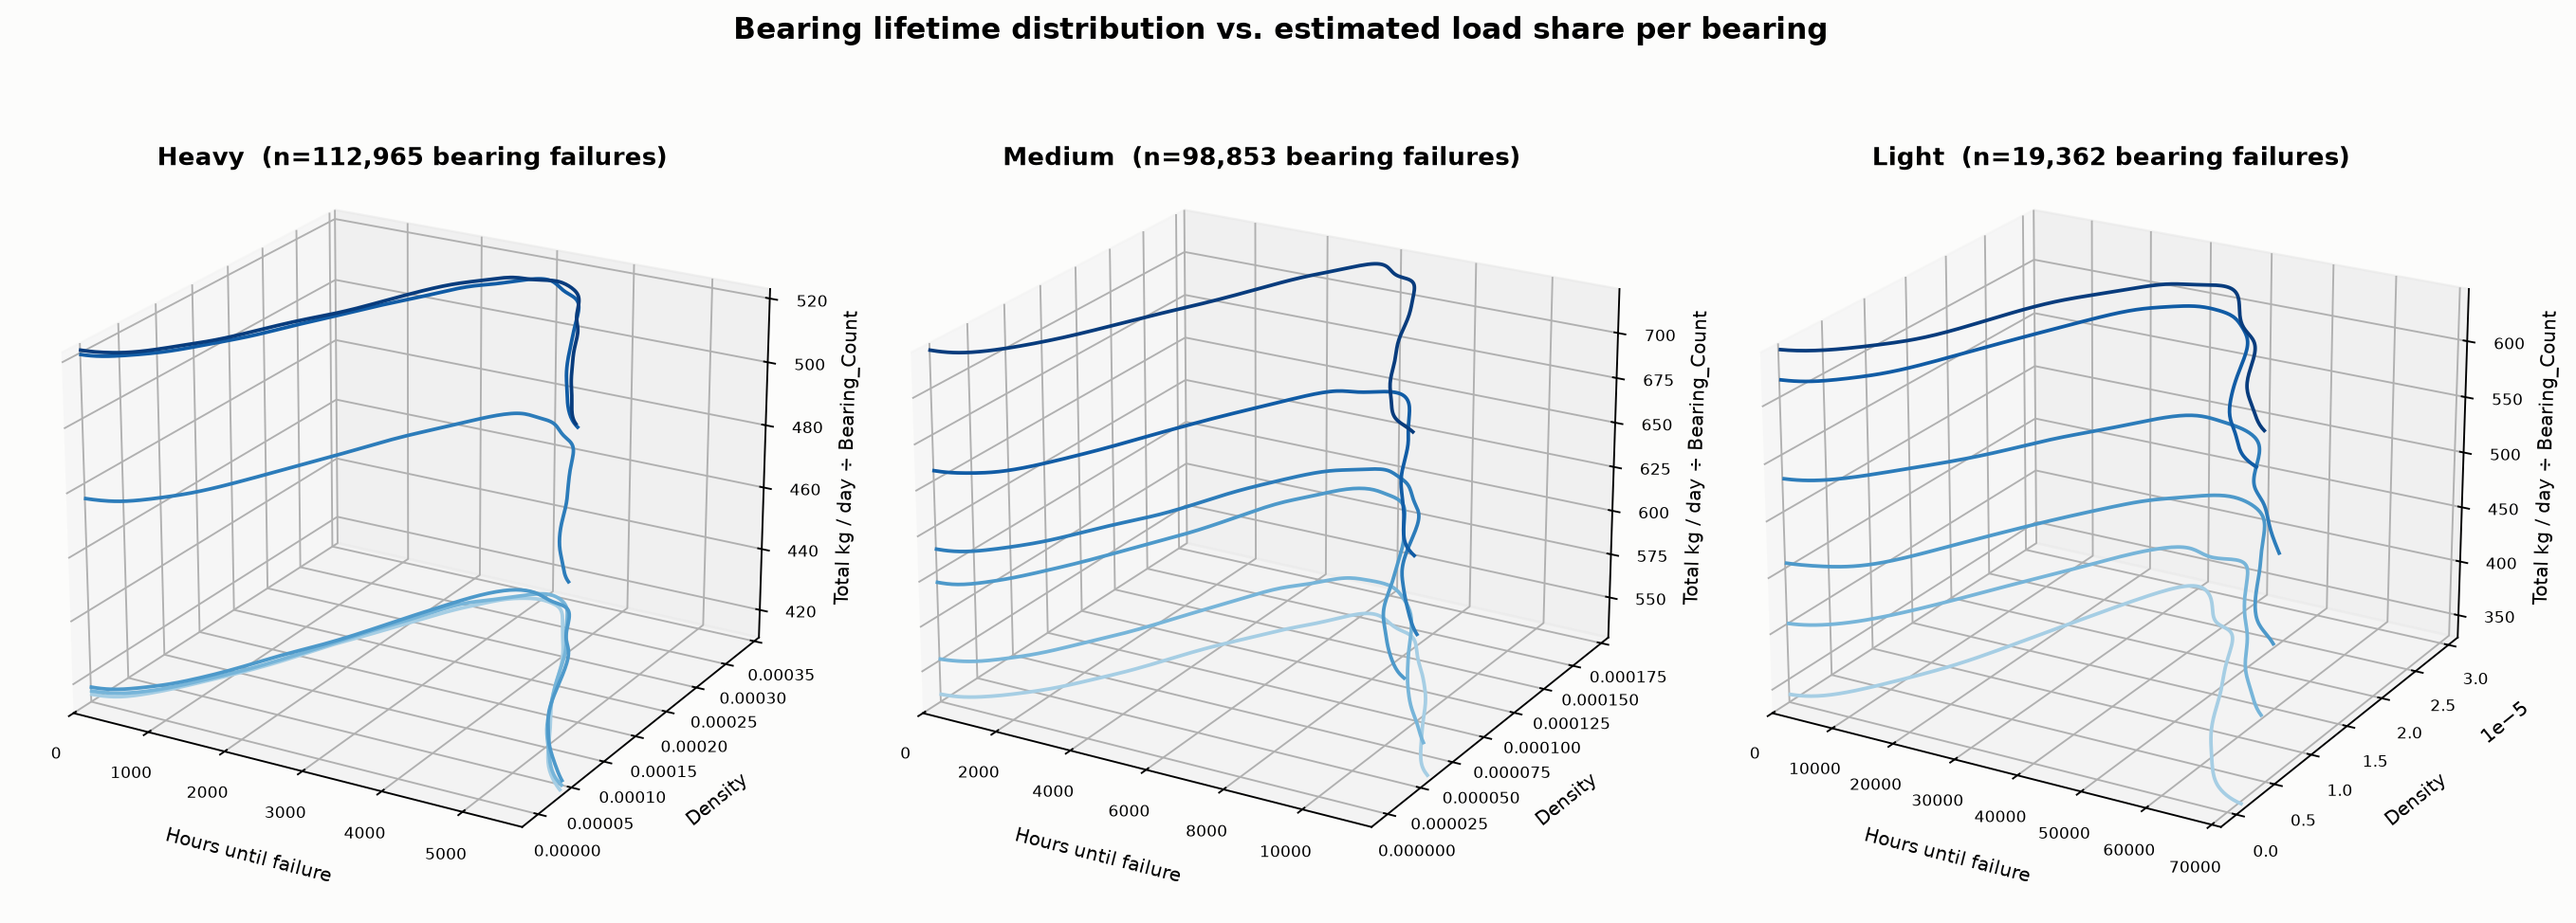
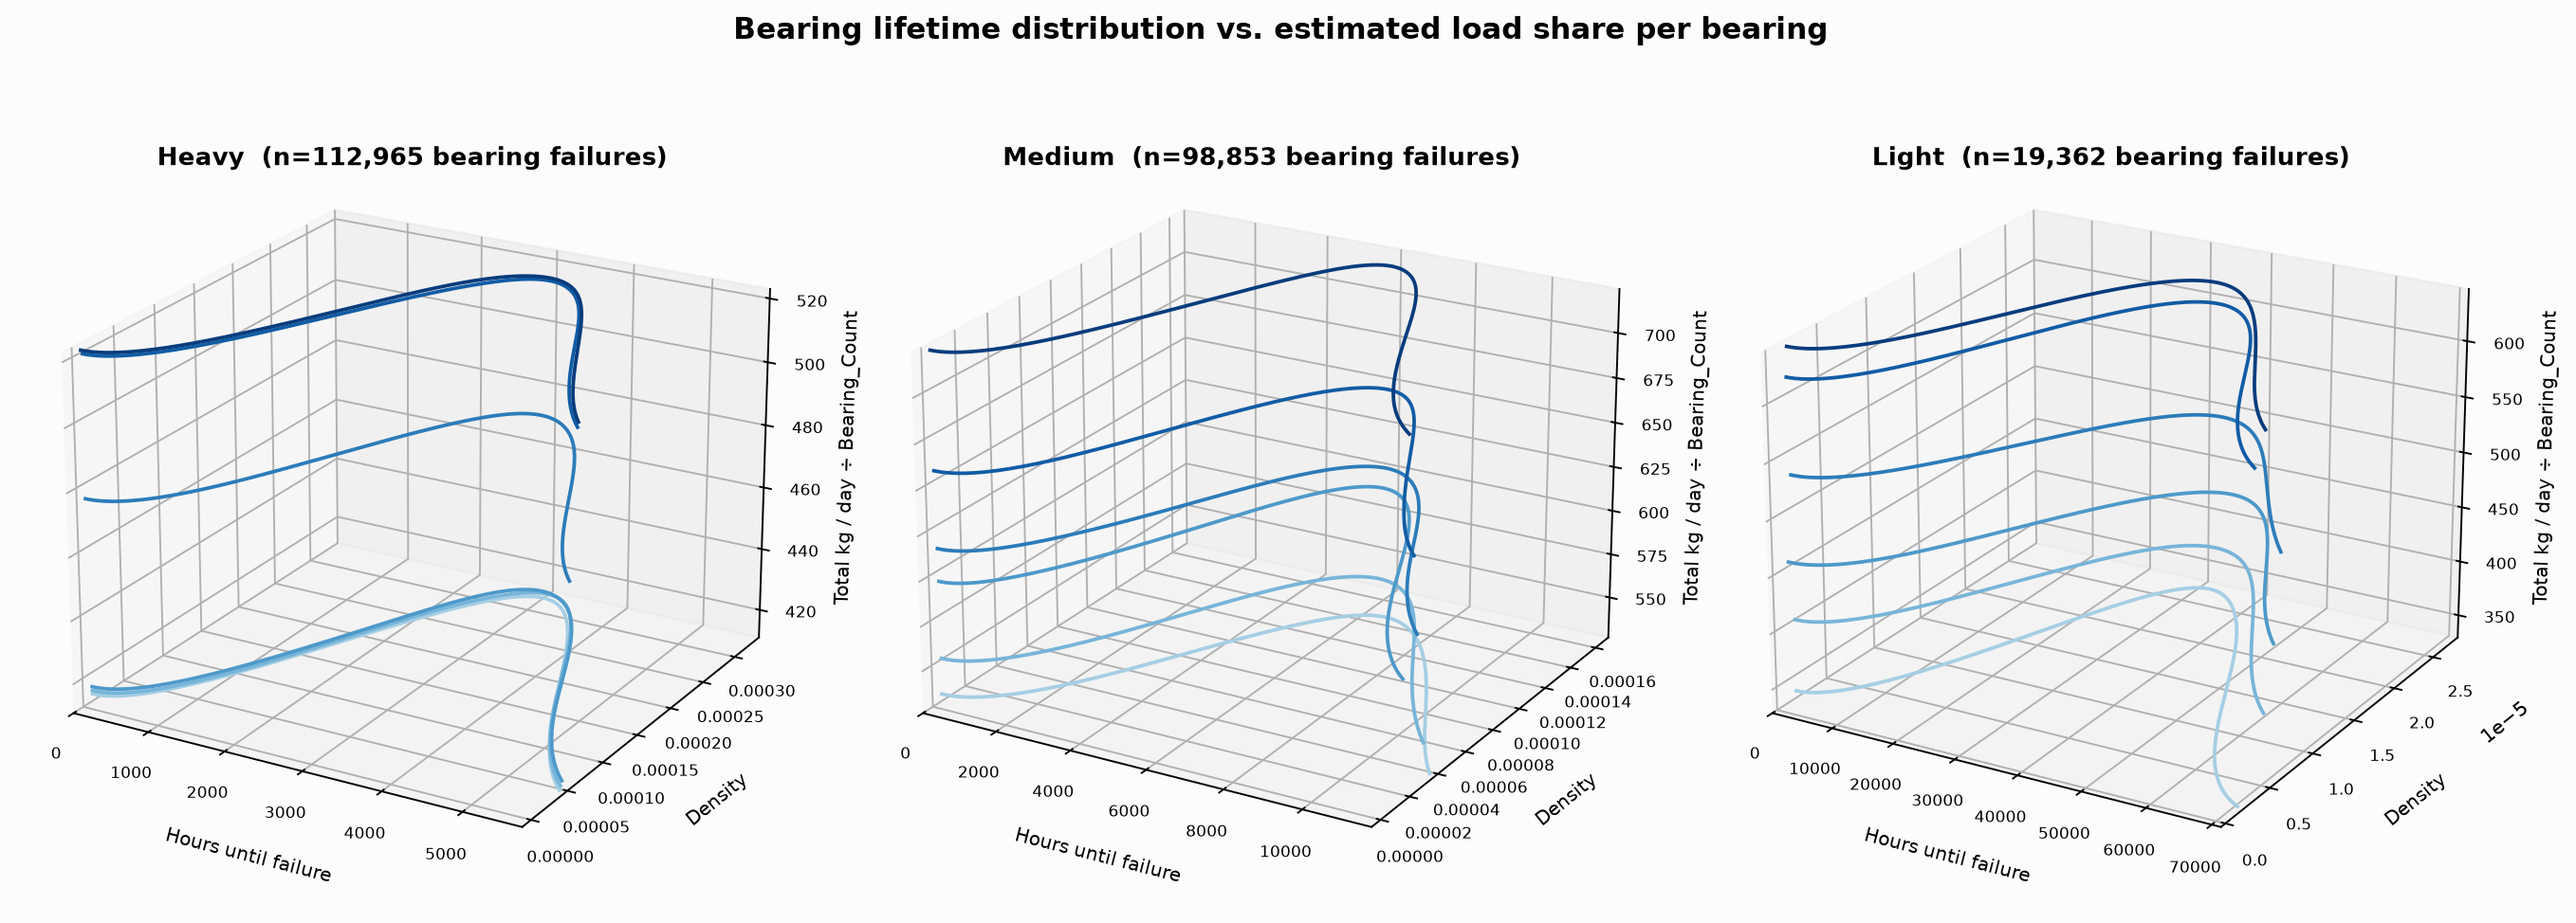
Data-catch audit, bearing-position check, and bell curves for other components
Audited the whole fleet file for hidden artifacts like the Speed_Sensor
ceiling: swept all 17 numeric columns for clipping (nothing else shows it),
and verified corrective-downtime duration is genuinely uniform (1 day, every
component, no exceptions -- a first attempt found a false violation caused by
a query bug counting a later failure's corrective days into an earlier
failure's window). Confirms the Speed_Sensor ceiling is the one deliberate
data artifact, not one of several -- 8.6% of its failures land within 0.1% of
its own max lifetime vs <=0.02% for every other component.

Checked whether bearing position (which physical slot, from
Failed_Component_ID) predicts lifetime: it doesn't (rho ~0, all load classes).

Added bell-curve KDE plots for the other 5 failure types, grouped by
Load_Class and by first-life vs. replacement. Fixed a KDE boundary-bias bug
along the way (a plain Gaussian KDE fakes a peak away from zero for
near-random components since it smooths mass past the hard boundary at 0;
caught on Controller_PC by checking against the raw histogram) with a
reflection correction, applied here and retrofitted into the bearing 3D plots
for consistency.

diff --git a/analysis/reliability_over_time/plot_other_component_bell_curves.py b/analysis/reliability_over_time/plot_other_component_bell_curves.py
@@ -1,0 +1,106 @@
+"""Bell curves (KDE of hours-until-failure) for the non-Bearing components, grouped two
+ways per component: by Load_Class, and by first-life (renewal 0) vs. replacement
+(renewal >= 1). Bearing is handled separately (plot_bearing_lifetime_vs_load_3d.py,
+plot_light_bearing_selection_effect.py) since it needs per-position data; Contactor is
+skipped here (only 12 fleet-wide failures -- too sparse for a density estimate).
+
+Reuses outputs/req1/intervals_<component>.parquet (already computed by
+scripts/02_reliability_analysis.py) -- no fleet-file re-query needed.
+
+Usage (repo root):
+  uv run --no-project --with matplotlib --with pandas --with numpy --with scipy --with pyarrow \
+    python analysis/reliability_over_time/plot_other_component_bell_curves.py
+"""
+from pathlib import Path
+
+import numpy as np
+import pandas as pd
+from scipy.stats import gaussian_kde
+import matplotlib.pyplot as plt
+
+IN = Path("outputs/req1")
+OUT = Path(__file__).parent
+BLUE, ORANGE, AQUA, GREY, PURPLE = "#2a78d6", "#eb6834", "#1baf7a", "#8a8a86", "#7b5ea8"
+INK, INK2, GRID, SURF = "#0b0b0b", "#52514e", "#e4e3df", "#fcfcfb"
+LOAD_COLOR = {"Light": AQUA, "Medium": GREY, "Heavy": ORANGE}
+NAMES = {"Conveyor_Belt": "Belt", "Motor_Reducer": "Motor-reducer", "Speed_Sensor": "Speed sensor",
+         "Controller_PC": "Controller PC", "Control_Software": "Control software"}
+COMPONENTS = list(NAMES)
+SPEED_SENSOR_CEILING = 50016
+plt.rcParams.update({"font.family": "DejaVu Sans", "font.size": 9.5, "axes.edgecolor": GRID,
+                     "axes.labelcolor": INK2, "xtick.color": INK2, "ytick.color": INK2,
+                     "figure.facecolor": SURF, "axes.facecolor": SURF})
+
+
+def style(ax):
+    for s in ("top", "right"):
+        ax.spines[s].set_visible(False)
+    ax.tick_params(length=0)
+    ax.grid(axis="y", color=GRID, lw=0.8)
+    ax.set_axisbelow(True)
+
+
+def kde_curve(vals, x_hi):
+    # Reflection boundary correction: a plain KDE is biased near a hard boundary at 0
+    # (it smooths mass to negative values that then just vanishes, which for a
+    # near-random/infant-mortality component -- highest true density AT zero -- fakes a
+    # peak away from zero that isn't in the data; verified against the raw histogram for
+    # Controller_PC before adding this). Mirroring the data across 0 and doubling the
+    # resulting density on the positive side is the standard fix.
+    xs = np.linspace(0, x_hi, 300)
+    if len(vals) < 15:
+        return xs, np.zeros_like(xs)
+    reflected = np.concatenate([vals, -vals])
+    return xs, 2 * gaussian_kde(reflected)(xs)
+
+
+def main():
+    for comp in COMPONENTS:
+        iv = pd.read_parquet(IN / f"intervals_{comp}.parquet")
+        ev = iv[iv.event == 1]
+        x_hi = ev.op_h.quantile(0.98)
+
+        fig, axes = plt.subplots(1, 2, figsize=(13, 5))
+
+        ax = axes[0]
+        for load in ["Light", "Medium", "Heavy"]:
+            g = ev[ev.load == load]
+            xs, ys = kde_curve(g.op_h.to_numpy(), x_hi)
+            ax.plot(xs, ys, color=LOAD_COLOR[load], lw=2.2, label=f"{load} (n={len(g):,})")
+        ax.set_title("By Load_Class", fontsize=11)
+        ax.set_xlabel("Hours until failure")
+        ax.set_ylabel("Density")
+        ax.legend(fontsize=8.5, frameon=False)
+        style(ax)
+
+        ax = axes[1]
+        first = ev[ev.renewal == 0]
+        later = ev[ev.renewal >= 1]
+        xs, ys = kde_curve(first.op_h.to_numpy(), x_hi)
+        ax.plot(xs, ys, color=BLUE, lw=2.2, label=f"first life (n={len(first):,})")
+        xs, ys = kde_curve(later.op_h.to_numpy(), x_hi)
+        ax.plot(xs, ys, color=PURPLE, lw=2.2, label=f"replacement, any renewal ≥1 (n={len(later):,})")
+        ax.set_title("By first life vs. replacement", fontsize=11)
+        ax.set_xlabel("Hours until failure")
+        ax.set_ylabel("Density")
+        ax.legend(fontsize=8.5, frameon=False)
+        style(ax)
+
+        if comp == "Speed_Sensor":
+            for ax in axes:
+                if SPEED_SENSOR_CEILING <= x_hi:
+                    ax.axvline(SPEED_SENSOR_CEILING, color=INK, ls="--", lw=1.2)
+                    ax.text(SPEED_SENSOR_CEILING - x_hi * 0.02, ax.get_ylim()[1] * 0.9,
+                            "hard ceiling\n~50,016 op-h", ha="right", fontsize=7.5, color=INK)
+
+        fig.suptitle(f"{NAMES[comp]}: distribution of hours until failure  (n={len(ev):,} failures)",
+                     fontsize=13, fontweight="bold", y=1.02)
+        fig.tight_layout()
+        fname = f"bell_curve_{comp.lower()}.png"
+        fig.savefig(OUT / fname, dpi=170, bbox_inches="tight")
+        print(f"Saved: {OUT / fname}")
+        plt.close(fig)
+
+
+if __name__ == "__main__":
+    main()

diff --git a/analysis/reliability_over_time/plot_data_audit_ceiling_check.py b/analysis/reliability_over_time/plot_data_audit_ceiling_check.py
@@ -1,0 +1,64 @@
+"""Data audit: is the Speed_Sensor hard ceiling (found via hazard_vs_age.png /
+speed_sensor_scatter.png) the only hidden ceiling-type artifact among the 7 failure
+components? For each, checks what fraction of intervals sit within 0.1% of that
+component's max recorded operating-hours duration, and whether those near-max
+intervals are actual failures (a real ceiling) or just censored/still-running units
+(normal -- some conveyor always has the longest history).
+
+Reuses outputs/req1/intervals_<component>.parquet -- no fleet-file re-query needed.
+
+Usage (repo root):
+  uv run --no-project --with matplotlib --with pandas --with numpy --with pyarrow \
+    python analysis/reliability_over_time/plot_data_audit_ceiling_check.py
+"""
+from pathlib import Path
+
+import pandas as pd
+import matplotlib.pyplot as plt
+
+IN = Path("outputs/req1")
+OUT = Path(__file__).parent
+COMPONENTS = ["Bearing", "Conveyor_Belt", "Motor_Reducer", "Speed_Sensor",
+              "Controller_PC", "Control_Software", "Contactor"]
+ORANGE, GREY = "#eb6834", "#8a8a86"
+INK, INK2, GRID, SURF = "#0b0b0b", "#52514e", "#e4e3df", "#fcfcfb"
+plt.rcParams.update({"font.family": "DejaVu Sans", "font.size": 10, "axes.edgecolor": GRID,
+                     "axes.labelcolor": INK2, "xtick.color": INK2, "ytick.color": INK2,
+                     "figure.facecolor": SURF, "axes.facecolor": SURF})
+
+
+def main():
+    rows = []
+    for comp in COMPONENTS:
+        iv = pd.read_parquet(IN / f"intervals_{comp}.parquet")
+        mx = iv.op_h.max()
+        near = iv[iv.op_h >= mx * 0.999]
+        rows.append({"component": comp, "n_intervals": len(iv), "max_op_h": mx,
+                     "n_near_max": len(near), "n_near_max_failures": int((near.event == 1).sum()),
+                     "n_near_max_censored": int((near.event == 0).sum()),
+                     "pct_failures_near_max": round(100 * (near.event == 1).sum() / max((iv.event == 1).sum(), 1), 2)})
+    df = pd.DataFrame(rows)
+    df.to_csv(OUT / "data_audit_ceiling_check.csv", index=False)
+    print(df.to_string(index=False))
+
+    fig, ax = plt.subplots(figsize=(9, 5))
+    colors = [ORANGE if c == "Speed_Sensor" else GREY for c in df.component]
+    ax.bar(df.component, df.pct_failures_near_max, color=colors)
+    for i, v in enumerate(df.pct_failures_near_max):
+        ax.text(i, v + 0.15, f"{v:.1f}%", ha="center", fontsize=9)
+    ax.set_ylabel("% of that component's failures landing within 0.1% of its own max lifetime")
+    ax.set_title("Only Speed_Sensor shows a real ceiling -- every other component's\n"
+                  "\"near-max\" cases are just normal censoring, not failures piling up",
+                  fontsize=12, fontweight="bold")
+    for s in ("top", "right"):
+        ax.spines[s].set_visible(False)
+    ax.tick_params(length=0, axis="x", rotation=30)
+    ax.grid(axis="y", color=GRID, lw=0.8)
+    ax.set_axisbelow(True)
+    fig.tight_layout()
+    fig.savefig(OUT / "data_audit_ceiling_check.png", dpi=170, bbox_inches="tight")
+    print(f"\nSaved: {OUT / 'data_audit_ceiling_check.png'}")
+
+
+if __name__ == "__main__":
+    main()

diff --git a/analysis/reliability_over_time/plot_bearing_lifetime_vs_load_3d.py b/analysis/reliability_over_time/plot_bearing_lifetime_vs_load_3d.py
@@ -77,8 +77,10 @@ def ridge_subplot(ax, d, z_col, z_label, color):
         vals = d.loc[d.zbin == zbin, "op_h"].to_numpy()
         if len(vals) < 30:
             continue
-        kde = gaussian_kde(vals)
-        densities = kde(xs)
+        # Reflection boundary correction (see plot_other_component_bell_curves.py): makes
+        # no visible difference for Bearing since it's strongly wear-out (true density is
+        # genuinely ~0 near hours=0), but applied for consistency/correctness.
+        densities = 2 * gaussian_kde(np.concatenate([vals, -vals]))(xs)
         # ax.plot(X, Y, Z) maps positionally to data-space axes regardless of view angle:
         # X = hours until failure, Y = density (the bell curve), Z = throughput slice.
         ax.plot(xs, densities, np.full_like(xs, zval), color=shade, lw=1.6)

diff --git a/analysis/reliability_over_time/reliability_over_time_findings.md b/analysis/reliability_over_time/reliability_over_time_findings.md
@@ -15,6 +15,10 @@ uv run --no-project --with duckdb --with matplotlib --with pandas --with numpy -
   python analysis/reliability_over_time/plot_light_bearing_selection_effect.py
 uv run --no-project --with duckdb --with matplotlib --with pandas --with numpy --with scipy --with pyarrow \
   python analysis/reliability_over_time/plot_bearing_lifetime_vs_load_3d.py
+uv run --no-project --with matplotlib --with pandas --with numpy --with pyarrow \
+  python analysis/reliability_over_time/plot_data_audit_ceiling_check.py
+uv run --no-project --with matplotlib --with pandas --with numpy --with scipy --with pyarrow \
+  python analysis/reliability_over_time/plot_other_component_bell_curves.py
 ```
 
 These are **candidate visualizations of already-established findings**, built for
@@ -162,16 +166,109 @@ look similar, but that's because `Bearing_Count` itself barely varies within a l
 class (58–68 for Heavy, 44–56 Medium, 32–62 Light) — not evidence of anything about
 load-sharing.
 
+## 6. Data audit: is the Speed_Sensor ceiling the only hidden artifact? — [`data_audit_ceiling_check.png`](data_audit_ceiling_check.png), [`data_audit_ceiling_check.csv`](data_audit_ceiling_check.csv)
+
+![Data audit ceiling check](data_audit_ceiling_check.png)
+
+Prompted by "the professor said there's a catch somewhere, hidden in the dataset."
+Two checks, both against the raw fleet Parquet (not a cached intermediate), to see
+whether the Speed_Sensor ceiling (§1) is one of several hidden artifacts or the only
+one:
+
+- **Every numeric column swept for the same clipping signature.** All 17 continuous
+  columns (CM signals, environment, exposure, cumulative counters) checked for
+  suspicious clustering at their min/max. Every one shows exactly the behavior normal
+  operation predicts (`RUNNING` days pinned at 24 operating hours, non-running days at
+  0, smooth natural tails elsewhere) — no other column shows anything like Speed_Sensor's
+  pattern.
+- **Whether corrective-repair downtime secretly varies by component** — CLAUDE.md
+  flags this as an assumption ("every failure = exactly 1 corrective day / 36h total")
+  that was never actually verified, only assumed. A first attempt at checking it found
+  what looked like a real violation (multi-day corrective streaks for Bearing) — that
+  turned out to be a bug in the query (a later failure's corrective days landing inside
+  the same lookahead window as an earlier one, since Heavy-conveyor bearing failures
+  cluster closely). A proper gaps-and-islands query, run directly against the fleet
+  file, confirms the assumption is exactly correct: every one of 247,117 failures,
+  every component, is followed by precisely 1 `CORRECTIVE_DOWNTIME` day. Not the catch.
+- **[`data_audit_ceiling_check.csv`](data_audit_ceiling_check.csv)** formalizes the
+  ceiling check from §1 across all 7 components using
+  `outputs/req1/intervals_<component>.parquet`: the % of a component's own failures
+  landing within 0.1% of that component's own max recorded lifetime. Speed_Sensor:
+  **8.6%**. Every other component: ≤0.02%, and those handful of "near-max" cases are
+  confirmed censored (still-running) units, not failures — i.e. just the normal fact
+  that some conveyor always has the longest observed history, not a ceiling.
+
+**Conclusion: the Speed_Sensor design-life ceiling (~50,016 op-h) is the one
+deliberate hidden artifact in the dataset**, not one of several. It matters beyond
+curiosity because it's invisible in the summary statistic everyone would naturally
+report (β≈1.19, "near-random") — only ~9% of failures are affected, hidden inside an
+otherwise-correct-looking random-failure characterization. Checked against the example
+conveyor `P02CV27`: none of its 7 observed Speed_Sensor lifetimes hit the ceiling
+(unsurprising — with a 91.4% chance of missing it per lifetime, ~55% chance of missing
+it in all 7), so this isn't visible from the example files alone. **The hidden
+evaluation conveyor could plausibly be one of the ~9% approaching it, which a
+Weibull-only model would get badly wrong.**
+
+## 7. Does bearing position (which physical slot) matter? — reuses [`bearing_position_intervals_all_loads.csv`](bearing_position_intervals_all_loads.csv)
+
+Follow-up to §5, checking the other half of "does bearing count/position matter":
+extracted each bearing's position number from `Failed_Component_ID` (e.g. `BRG_015`)
+and its position as a fraction of that conveyor's `Bearing_Count` (0 = first slot,
+1 = last slot), then checked Spearman correlation against lifetime, per load class.
+
+**Result: no effect. ρ ≈ 0.0003 to −0.028 across all three load classes** — physical
+position along the conveyor does not predict bearing lifetime. Learned from the §5
+throughput mistake: checked this properly before writing it up, rather than building a
+plot first. A bearing's slot is not a "weak point" — bearings are interchangeable
+regardless of where they sit. No figure needed; the correlation table is the finding.
+
+## 8. Bell curves for the other 5 failure types — [`bell_curve_*.png`](.)
+
+![Speed sensor bell curve](bell_curve_speed_sensor.png)
+
+Same treatment as §5/§7 extended to Conveyor_Belt, Motor_Reducer, Speed_Sensor,
+Controller_PC, and Control_Software (Contactor skipped — 12 fleet-wide failures, too
+sparse for a density estimate). Each gets two panels: by `Load_Class`, and by first
+life (renewal 0) vs. any replacement (renewal ≥1). Reuses
+`outputs/req1/intervals_<component>.parquet` directly, no fleet re-query.
+
+**Methodological note, important for anyone reusing `plot_other_component_bell_curves.py`
+or `plot_bearing_lifetime_vs_load_3d.py`:** a plain Gaussian KDE is biased near a hard
+boundary at zero — it smooths probability mass to negative values that then just
+vanish, which for a near-random or infant-mortality component (true density highest
+*at* zero) fakes a peak away from zero that isn't really there. Caught this on
+Controller_PC (β≈0.99, should have maximum density at hours=0): the first KDE attempt
+showed a false peak around 8,000 hours; the raw histogram (rate 0.079/hour in the
+first 1,000 hours, declining monotonically after) confirmed the peak was fake. Fixed
+with a standard reflection correction (mirror the data across zero, double the
+resulting density on the positive side) in both this script and
+`plot_bearing_lifetime_vs_load_3d.py` (no visible effect there — Bearing is strongly
+wear-out, so true density near zero really is ~0 — but applied for consistency).
+
+- **Speed_Sensor's bell curve is visibly bimodal** once correctly shaped: a normal
+  random-failure hump early, declining, then a second real bump right at the §1/§6
+  ceiling — both mechanisms visible in one picture.
+- **Control_Software** clearly shows its infant-mortality shape (β=0.91): Light-class
+  failures peak early (~10,000 op-h) and decay; Heavy has only 6 failures fleet-wide,
+  too few to show a real shape (flat near-zero line — a sample-size limitation, not a
+  finding).
+- **Controller_PC and Speed_Sensor (pre-ceiling) both show near-load-independent
+  curves** (all three `Load_Class` lines overlap), consistent with their β≈1 fits —
+  load doesn't shift these the way it does Bearing/Belt/Motor-Reducer.
+
 ## Recommendation for slide placement
 
 - **Hazard-vs-age (§1)** is the strongest new candidate — it reads faster than
   `beta.png` for an oral audience and the Speed_Sensor ceiling is a genuinely new,
-  surprising fact. Consider it as a replacement or companion for `beta.png`, or as the
-  figure for the still-missing `accuracy.png` slot if that slide gets rebalanced
-  toward Req. 1 evidence instead.
+  surprising fact. Consider it as a replacement or companion for `beta.png`. (Note:
+  `accuracy.png` now exists — a teammate built it separately for the Req 2/3 CV story;
+  it's a different slide slot, not a candidate for these Req 1 figures.)
 - **Renewal check (§2)** is a good companion figure specifically because the "every
   component renews perfectly" bullet currently has no visual backing it up — lowest
   risk, most direct slot-in.
-- **Frailty persistence (§3)** is the best fit for an "uncertainty" bullet/claim if one
+- **Frailty persistence (§4)** is the best fit for an "uncertainty" bullet/claim if one
   is added; the P06 finding could be a strong closing line for the oral presentation
   even without its own figure.
+- **The Speed_Sensor ceiling (§1/§6/§8)** is the single strongest "we found something
+  the naive analysis would miss" story in this whole set — worth the oral presentation
+  time even if the figure itself doesn't make the 2 slides.
